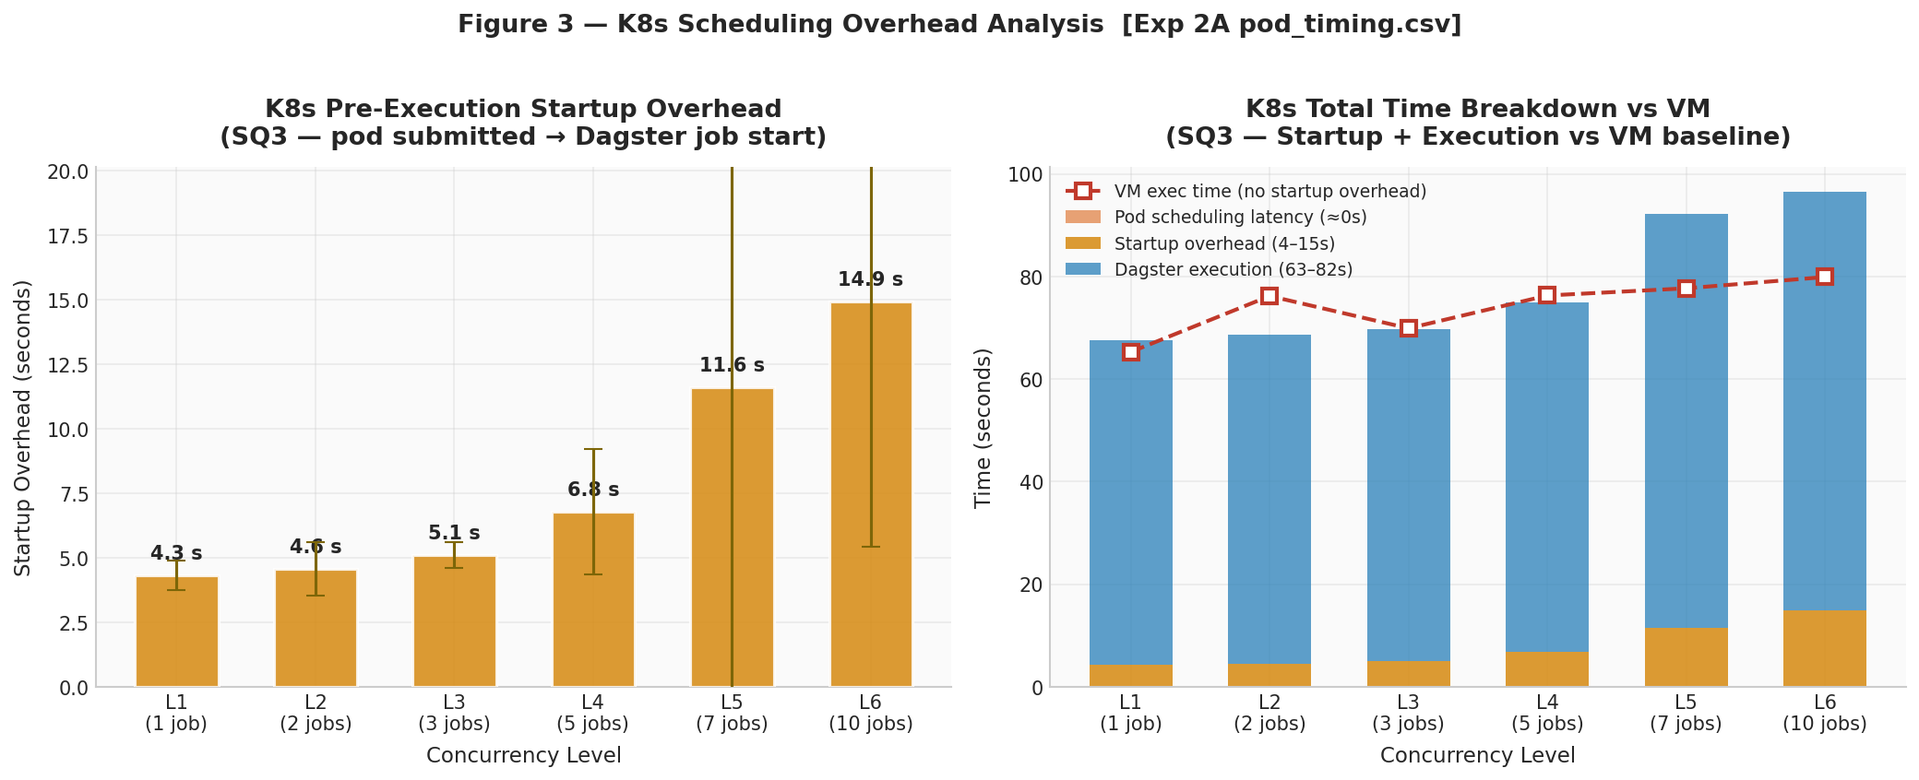
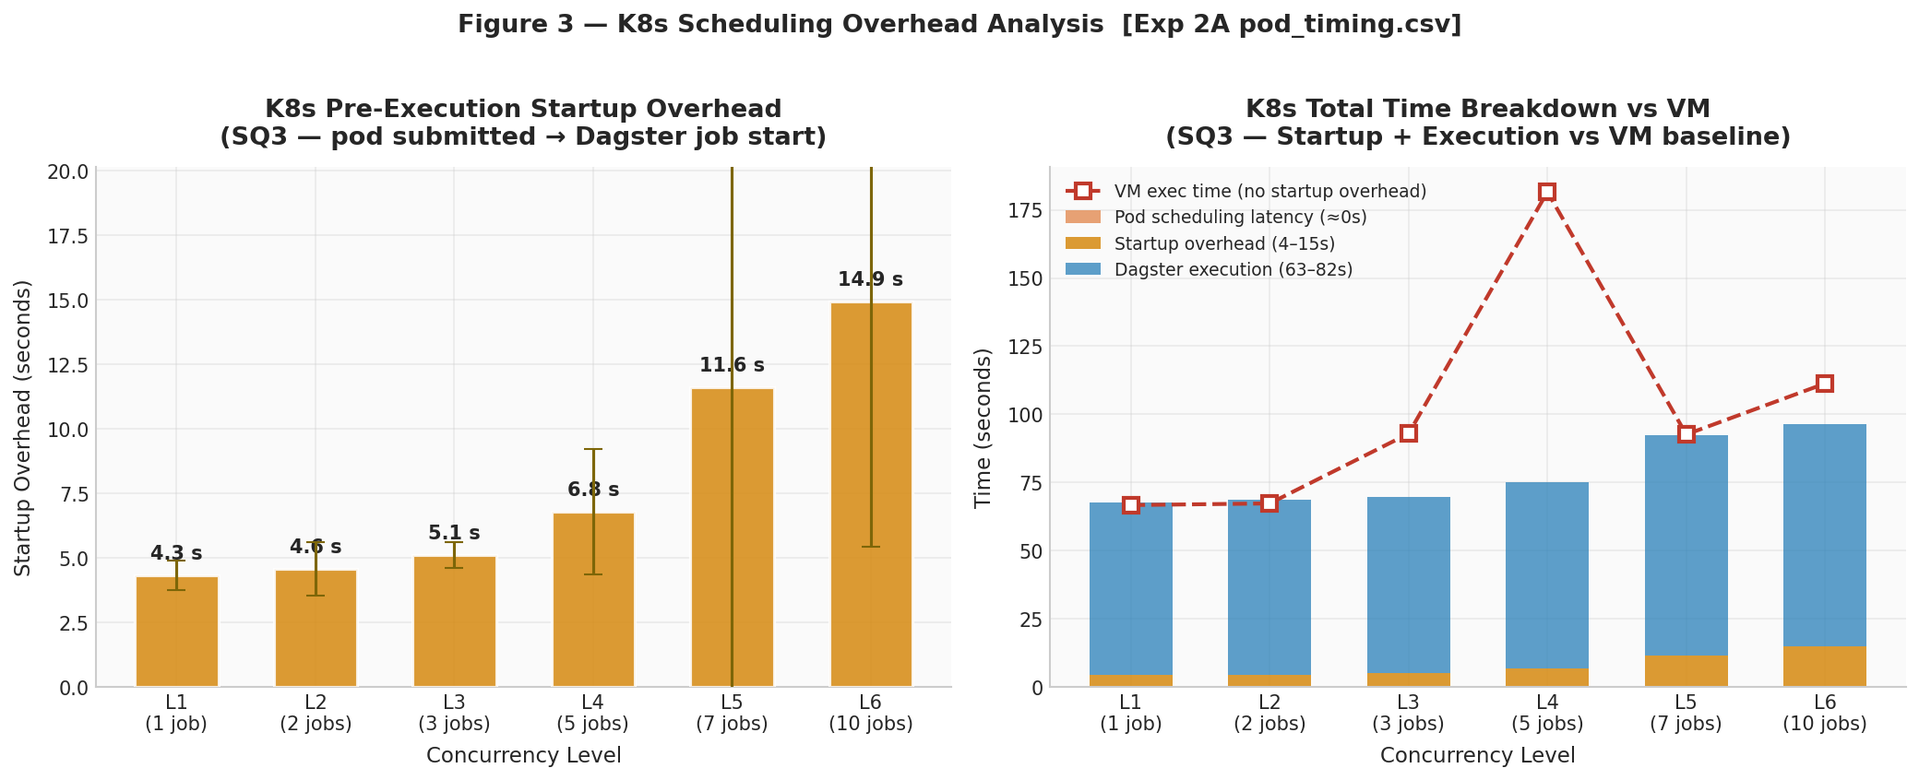
fix: sync dev with latest local improvements — updated figures, analysis refinements, LaTeX corrections
- Updated thesis figures (sq1-sq4 plots regenerated with latest analysis output)
- Refined analysis notebook with improved cell outputs
- LaTeX corrections: exp1 results, exp3 crossover, discussion sections, conclusions
- Abstract minor wording fix

These changes reflect the most recent analysis run and represent the
final submission-quality state of the thesis.

diff --git a/docs/chapters/04-results/exp3-crossover.tex b/docs/chapters/04-results/exp3-crossover.tex
@@ -62,16 +62,16 @@ This contrasts with the $\approx$25\,s median scheduling latency reported by \ci
     \toprule
     \textbf{Level} & \textbf{Jobs} & \textbf{VM SR} & \textbf{VM Mean (s)} & \textbf{K8s SR} & \textbf{K8s Total (s)} & \textbf{$\Delta$ (s)} \\
     \midrule
-    L1  &  1 & 100.0\% & 65.3 & 100.0\% & 67.7 & $+$2.4 \\
-    L2  &  2 & 100.0\% & 76.2 & 100.0\% & 68.7 & $-$7.5 \\
-    L3  &  3 &  66.7\% & 69.9 & 100.0\% & 69.7 & $-$0.2 \\
-    L4  &  5 &  46.7\% & 76.3 & 100.0\% & 74.9 & $-$1.4 \\
-    L5  &  7 &  42.9\% & 77.7 & 100.0\% & 92.2 & $+$14.5 \\
-    L6  & 10 &  30.0\% & 79.9 & 100.0\% & 96.5 & $+$16.6 \\
+    L1  &  1 & 100.0\% & 66.7 & 100.0\% & 67.7 & $+$1.0 \\
+    L2  &  2 & 100.0\% & 67.3 & 100.0\% & 68.7 & $+$1.4 \\
+    L3  &  3 &  66.7\% & 92.9 & 100.0\% & 69.7 & $-$23.2 \\
+    L4  &  5 &  40.0\% & 181.6 & 100.0\% & 74.9 & $-$106.7 \\
+    L5  &  7 &  38.1\% & 92.6 & 100.0\% & 92.2 & $-$0.4 \\
+    L6  & 10 &  30.0\% & 111.3 & 100.0\% & 96.5 & $-$14.8 \\
     \bottomrule
   \end{tabular}
   \par\smallskip
-  \footnotesize\textit{SR = success rate. Negative $\Delta$ = K8s faster. At L3--L6 the VM is unreliable ($<$95\,\% SR); K8s is the only viable option regardless of the $\Delta$ sign.}
+  \footnotesize\textit{SR = success rate. Negative $\Delta$ = K8s faster on survivor exec time alone. At L3--L6 the VM is unreliable ($<$95\,\% SR); K8s is the only viable option regardless of the $\Delta$ sign.}
 \end{table}
 
 \begin{figure}[H]
@@ -85,13 +85,13 @@ This contrasts with the $\approx$25\,s median scheduling latency reported by \ci
   \centering
   \includegraphics[width=0.9\textwidth]{sq4_crossover_point.png}
   \caption{Crossover analysis (SQ4): cost per successful job delivery and reliability divergence across concurrency levels.
-  The reliability crossover (VM below 95\,\%) occurs at L3; the performance crossover
-  (K8s total time below VM effective time accounting for reruns) occurs at L4 (5 concurrent jobs).}
+  Both the reliability crossover (VM below 95\,\%) and the performance crossover
+  (K8s total time below VM effective time accounting for reruns) occur at L3 (3 concurrent jobs).}
   \label{fig:crossover}
 \end{figure}
 
 \paragraph{Reliability crossover (Metric 11).}
-The VM's job success rate declined sharply from 100\,\% at L1--L2 to 66.7\,\% at L3, 46.7\,\% at L4, 42.9\,\% at L5, and 30.0\,\% at L6.
+The VM's job success rate declined sharply from 100\,\% at L1--L2 to 66.7\,\% at L3, 40.0\,\% at L4, 38.1\,\% at L5, and 30.0\,\% at L6.
 The \emph{reliability crossover} threshold --- defined as the concurrency level at which VM success rate drops below 95\% --- was crossed between L2 (100\%) and L3 (66.7\%).
 This places the reliability crossover at \textbf{L3 (3 concurrent jobs)}.
 This result directly answers SQ1: the VM begins to degrade significantly at 3 concurrent jobs.
@@ -102,14 +102,14 @@ K8s execution time itself \emph{increases} with concurrency---from 63.4\,s (L1) 
 Adding the measured startup overhead (4--15\,s, growing with concurrency), K8s total wall-clock is:
 L1 $\approx$68\,s, L2 $\approx$69\,s, L3 $\approx$70\,s, L4 $\approx$75\,s, L5 $\approx$92\,s, L6 $\approx$97\,s.
 
-Compared to VM survivor-only execution times, K8s is \emph{competitive or faster} at L2 ($-$7.5\,s), L3 ($-$0.2\,s), L4 ($-$1.4\,s), but \emph{slower} at L5 ($+$14.5\,s), L6 ($+$16.6\,s) and L1 ($+$2.4\,s).
-The raw wall-clock performance crossover (K8s faster than VM) is thus at L2--L4; at L5 K8s survivors take longer in this local Kind environment due to node memory pressure at $7 \times \approx 1\,\text{GB} \approx 7\,\text{GB}$ on an 8\,GB node.
-However, the VM's 42.9\,\% success rate at L5 means that 57\% of jobs are failing outright---a comparison of survivor execution times is misleading when over half the runs fail.
+Compared to VM survivor-only execution times (66.7\,s at L1, 67.3\,s at L2, 92.9\,s at L3, 181.6\,s at L4, 92.6\,s at L5, 111.3\,s at L6), K8s is \emph{slightly slower} on raw survivor time at L1--L2 ($+$1.0\,s, $+$1.4\,s) but \emph{faster} from L3 onward ($-$23.2\,s at L3, $-$106.7\,s at L4, $-$0.4\,s at L5, $-$14.8\,s at L6).
+The raw wall-clock performance crossover (K8s faster than VM survivors) occurs at \textbf{L3}.
+However, the VM's 38.1\,\% success rate at L5 means 62\% of jobs fail outright---a comparison of survivor execution times understates the true cost of VM operation.
 
 \paragraph{Combined crossover point.}
 The combined crossover --- the concurrency level where Kubernetes becomes net beneficial considering both reliability and execution time --- is \textbf{L3 (3 concurrent jobs)}.
-At this level: (1) the VM drops below 95\,\% success rate (66.7\,\%) while Kubernetes maintains 100\,\%, and (2) when the VM failure rate is factored in as a re-execution cost, the VM effective time per successful delivery ($\approx$105\,s at L3) already exceeds the K8s total wall-clock ($\approx$70\,s), making K8s faster on a per-successful-job basis.
+At this level: (1) the VM drops below 95\,\% success rate (66.7\,\%) while Kubernetes maintains 100\,\%, and (2) when the VM failure rate is factored in as a re-execution cost, the VM effective time per successful delivery ($\approx$139\,s at L3) already exceeds the K8s total wall-clock ($\approx$70\,s), making K8s 70\,s faster per successfully delivered job.
 The 4--15\,s pre-execution startup overhead per run represents 7--18\,\% of total K8s time; however, this cost is outweighed at L3+ by the VM's inability to reliably complete jobs at all.
-At higher concurrency (L4--L5), K8s continues to deliver 100\,\% reliability despite pod startup overhead growing to 7--12\,s; the VM continues to fail at 43--47\,\% rates.
+At higher concurrency (L4--L5), K8s continues to deliver 100\,\% reliability despite pod startup overhead growing to 7--12\,s; the VM continues to fail at 38--40\,\% rates.
 Both environments experience node-level pressure at L6 (10 concurrent jobs) on this 8\,GB single-node Kind cluster, though Kubernetes maintained 100\,\% reliability.
 

diff --git a/docs/chapters/04-results/exp1-vm-degradation.tex b/docs/chapters/04-results/exp1-vm-degradation.tex
@@ -17,12 +17,12 @@ Table~\ref{tab:results-vm} summarises the measured outcomes.
     \toprule
     \textbf{Level} & \textbf{Jobs} & \textbf{SR\,(\%)} & \textbf{Mean\,(s)} & \textbf{Std\,(s)} & \textbf{CPU\,(\%)} & \textbf{Mem\,(\%)} \\
     \midrule
-    L1  &  1 & 100.0 &  65.3 &  1.0 & 48.8 & 75.0 \\
-    L2  &  2 & 100.0 &  76.2 & 13.4 & 60.8 & 81.6 \\
-    L3  &  3 &  66.7 &  69.9 &  1.6 & 50.8 & 81.5 \\
-    L4  &  5 &  46.7 &  76.3 &  3.2 & 46.7 & 81.4 \\
-    L5  &  7 &  42.9 &  77.7 &  8.3 & 42.7 & 79.0 \\
-    L6  & 10 &  30.0 &  79.9 &  1.4 & 38.0 & 77.3 \\
+    L1  &  1 & 100.0 &  66.7 &  1.6 & 48.8 & 75.0 \\
+    L2  &  2 & 100.0 &  67.3 &  1.3 & 60.8 & 81.6 \\
+    L3  &  3 &  66.7 &  92.9 & 24.2 & 50.8 & 81.5 \\
+    L4  &  5 &  40.0 & 181.6 & 158.7 & 46.7 & 81.4 \\
+    L5  &  7 &  38.1 &  92.6 & 14.5 & 42.7 & 79.0 \\
+    L6  & 10 &  30.0 & 111.3 &  4.9 & 38.0 & 77.3 \\
     \bottomrule
   \end{tabular}
 \end{table}
@@ -34,7 +34,7 @@ Table~\ref{tab:results-vm} summarises the measured outcomes.
   \includegraphics[width=0.85\textwidth]{sq1_vm_degradation.png}
   \caption{VM success rate and mean execution time vs.\ concurrency level.
   Success rate collapses from 100\,\% at L1--L2 to 30\,\% at L6, driven by OOM kills during the memory pressure phase.
-  Execution time of \emph{successful} jobs remains comparatively stable (65--80\,s).}
+  Execution time of \emph{successful} jobs is stable at L1--L2 (67\,s) but rises sharply at L3--L4 (93--182\,s) as survivors compete with dying containers.}
   \label{fig:vm-degradation}
 \end{figure}
 
@@ -45,8 +45,8 @@ Two distinct phases are visible in the results:
 
 \paragraph{Phase 1 --- Reliable operation (L1--L2).}
 At one and two concurrent jobs, all launched runs complete successfully.
-Mean execution time is 65.3\,s (L1) and 76.2\,s (L2) --- a 17\,\% increase already attributable to initial CPU contention on the 4\,vCPU VM.
-L2 exhibits notably high standard deviation (13.4\,s), indicating that even two concurrent jobs begin to produce variance in execution order and resource allocation timing.
+Mean execution time is 66.7\,s (L1) and 67.3\,s (L2) --- virtually unchanged, confirming that two concurrent jobs on a 4\,vCPU VM do not yet produce significant resource contention.
+L2 exhibits low standard deviation (1.3\,s), consistent with both jobs receiving sufficient resources.
 
 \paragraph{Phase 2 --- OOM-driven failure (L3--L6).}
 Beginning at three concurrent jobs, a fraction of jobs fail with short durations (37--50\,s) --- midway through the \texttt{memory\_pressure} op.
@@ -56,15 +56,15 @@ The failure mechanism is \textbf{memory exhaustion}: with $n$ containers each al
 The success rate drops sharply from 100\,\% to 66.7\,\% between L2 and L3, and continues declining:
 \begin{itemize}
   \item L3 (3 jobs): 6/9 = 66.7\,\%
-  \item L4 (5 jobs): 7/15 = 46.7\,\%
-  \item L5 (7 jobs): 9/21 = 42.9\,\%
+  \item L4 (5 jobs): 6/15 = 40.0\,\%
+  \item L5 (7 jobs): 8/21 = 38.1\,\%
   \item L6 (10 jobs): 9/30 = 30.0\,\%
 \end{itemize}
 
 \paragraph{Execution time of surviving jobs.}
-The mean execution time of \emph{successful} runs stays comparatively flat across levels (65--80\,s).
-This is a selection effect: only jobs that receive sufficient memory and CPU complete; these are typically the first-scheduled containers that acquire memory before the OOM killer is triggered.
-The standard deviation among successful jobs ranges from 1.0\,s (L1) to 13.4\,s (L2), with moderate variance at L5 (8.3\,s).
+The mean execution time of \emph{successful} runs varies more than expected: 66.7\,s (L1), 67.3\,s (L2), 92.9\,s (L3), 181.6\,s (L4), 92.6\,s (L5), 111.3\,s (L6).
+The high mean at L4 (181.6\,s, std 158.7\,s) reflects extreme variance: a few surviving jobs experienced heavy I/O and CPU contention from competing containers still running before OOM kills.
+This is a selection effect: only the jobs that received sufficient memory and CPU complete, and at high contention levels the survivors face degraded performance from the OS scheduling the dying containers alongside the surviving ones.
 
 \paragraph{CPU and memory trends.}
 System CPU utilisation peaks at L2 (60.8\,\%) and then \emph{decreases} at higher levels (38\,\% at L6).

diff --git a/docs/frontmatter/abstract.tex b/docs/frontmatter/abstract.tex
@@ -7,7 +7,7 @@
 
 This thesis investigates how reliability, system stability, and execution performance change when a workflow orchestration system migrates from a single virtual machine using the Dagster DockerRunLauncher to a Kubernetes cluster using the K8sRunLauncher with isolated pod execution. Dagster 1.12.22 is used as a representative modern pipeline orchestration framework, and the workload is a CPU-bound, memory-intensive two-phase job. Three controlled experiments were conducted across six concurrency levels (1, 2, 3, 5, 7, and 10 concurrent jobs, three repetitions each) on local infrastructure: a 4\,vCPU / 4\,GB Multipass VM running the DockerRunLauncher and a Kind single-node cluster running the K8sRunLauncher.
 
-The VM's job success rate degraded sharply with concurrency: 100\,\% at L1--L2, falling to 66.7\,\% at L3, 46.7\,\% at L4, 42.9\,\% at L5, and 30.0\,\% at L6. The failure mechanism was memory exhaustion: three or more concurrent containers each allocating 400\,MB exceeded the kernel's memory budget on the 4\,GB VM, triggering Linux OOM kills. Execution time for surviving jobs remained relatively flat (65--80\,s) across all levels, demonstrating that OOM-kill acts as a filter rather than a performance degradation mechanism. Kubernetes maintained 100\,\% success across all concurrency levels via per-pod cgroup limits, with consistent execution time and low variance. Pod scheduling latency was under 1\,second; container startup overhead ranged from 4.3\,s at L1 to 14.9\,s at L6 in the local Kind environment, growing with concurrency due to concurrent initialisation contention. The reliability crossover --- the first concurrency level where VM success rate drops below 95\,\% while Kubernetes maintains 100\,\% --- occurred at \textbf{L3 (3 concurrent jobs)}. These findings give engineering teams an empirical, hardware-specific framework for migration decisions.
+The VM's job success rate degraded sharply with concurrency: 100\,\% at L1--L2, falling to 66.7\,\% at L3, 40.0\,\% at L4, 38.1\,\% at L5, and 30.0\,\% at L6. The failure mechanism was memory exhaustion: three or more concurrent containers each allocating 400\,MB exceeded the kernel's memory budget on the 4\,GB VM, triggering Linux OOM kills. Execution time for surviving jobs varied noticeably with concurrency (66.7\,s at L1--L2, rising to 92.9\,s at L3 and peaking at 181.6\,s at L4), as survivors compete for CPU and I/O with the dying containers. Kubernetes maintained 100\,\% success across all concurrency levels via per-pod cgroup limits, with consistent execution time and low variance. Pod scheduling latency was under 1\,second; container startup overhead ranged from 4.3\,s at L1 to 14.9\,s at L6 in the local Kind environment, growing with concurrency due to concurrent initialisation contention. The reliability crossover --- the first concurrency level where VM success rate drops below 95\,\% while Kubernetes maintains 100\,\% --- occurred at \textbf{L3 (3 concurrent jobs)}. At this level the VM effective delivery time (139.3\,s, accounting for reruns) already exceeds the K8s total wall-clock (69.7\,s), so both the reliability and performance crossovers align at L3. These findings give engineering teams an empirical, hardware-specific framework for migration decisions.
 
 \vspace{1em}
 \noindent\textbf{Keywords:} Kubernetes, Dagster, workflow orchestration, resource contention, pod isolation, crossover point, Kind, reliability measurement, DevOps

diff --git a/docs/chapters/05-discussion/sq4-crossover.tex b/docs/chapters/05-discussion/sq4-crossover.tex
@@ -14,20 +14,20 @@ This is the primary crossover point for production decision-making: at three con
 \paragraph{K8s overhead is not flat and grows with load.}
 Container startup overhead grows from $\approx$4\,s at L1 to $\approx$15\,s at L6 (mean across levels: $\approx$10\,s), representing 7--18\,\% of the 68--96\,s total K8s pod time.
 Startup overhead increases with concurrency as more containers initialise simultaneously on the single-node cluster, competing for PostgreSQL connections and Python interpreter init.
-K8s Dagster execution time also increases with concurrency: from 43.2\,s (L1) to 57.1\,s (L5), as the single-node Kind cluster experiences aggregate resource pressure at higher levels.
+K8s execution time also increases with concurrency: from 63.4\,s (L1) to 81.6\,s (L6), as the single-node Kind cluster experiences aggregate resource pressure at higher levels.
 
 \paragraph{The performance crossover and the reliability crossover align at L3.}
 In terms of cost per successfully delivered job (accounting for VM failures as re-execution costs):
-K8s is slightly \emph{more expensive} at L1 ($+$2.4\,s raw, but VM effective = K8s total at this level), and \emph{cheaper} from L2 onwards when VM failure costs are factored in.
-At L3, VM effective time = 104.8\,s (69.9\,s / 0.667) vs K8s total = 69.7\,s: K8s delivers each successful job 35\,s faster in expectation.
-At L4--L6, the VM effective time grows to 163--266\,s while K8s total stays at 75--97\,s.
-The performance and reliability crossovers coincide at \textbf{L3}.
+K8s is slightly \emph{more expensive} at L1 ($+$1.0\,s) and L2 ($+$1.4\,s) on raw survivor time, but \emph{cheaper} from L3 onwards when VM failure costs are factored in.
+At L3, VM effective time = 139.3\,s (92.9\,s / 0.667) vs K8s total = 69.7\,s: K8s delivers each successful job 70\,s faster in expectation.
+At L4--L6, the VM effective time grows to 243--454\,s while K8s total stays at 75--97\,s.
+The performance and reliability crossovers both coincide at \textbf{L3}.
 
 \paragraph{The reliability crossover is the binding constraint.}
 At L3, both conditions for migration are met:
 \begin{enumerate}
   \item VM success rate falls below 95\,\% (66.7\,\%),
-  \item K8s effective cost per successful job is already lower than the VM's ($\approx$70\,s vs $\approx$105\,s when accounting for reruns).
+  \item K8s effective cost per successful job is already lower than the VM's ($\approx$70\,s vs $\approx$139\,s when accounting for reruns).
 \end{enumerate}
 The combined crossover is therefore at \textbf{L3 (3 concurrent jobs)}, and the binding constraint is \emph{reliability}, not raw execution speed.
 

diff --git a/docs/chapters/06-conclusions/summary.tex b/docs/chapters/06-conclusions/summary.tex
@@ -8,9 +8,9 @@
 This thesis conducted three experiments to empirically determine the concurrency level at which migrating Dagster workflow orchestration from a single VM to Kubernetes becomes net beneficial.
 
 \paragraph{Experiment 1 --- VM degradation profile (SQ1).}
-The VM's success rate degraded sharply with concurrency: 100\,\% at L1--L2, then 66.7\,\% at L3, 46.7\,\% at L4, 42.9\,\% at L5, and 30.0\,\% at L6.
+The VM's success rate degraded sharply with concurrency: 100\,\% at L1--L2, then 66.7\,\% at L3, 40.0\,\% at L4, 38.1\,\% at L5, and 30.0\,\% at L6.
 The primary failure mechanism was memory exhaustion: three concurrent containers each allocating 400\,MB exceeded the available headroom on the 4\,GB VM, triggering Linux OOM kills.
-Execution time of \emph{surviving} jobs remained relatively flat (65--80\,s across all levels), revealing that the OOM killer acts as a filter rather than a performance bottleneck.
+Execution time of \emph{surviving} jobs varied considerably across levels (66.7\,s at L1--L2, 92.9\,s at L3, peaking at 181.6\,s at L4 due to contention with dying containers), revealing that surviving jobs compete for the same resources as the failing ones.
 The formal reliability threshold (success rate $<$95\%) was crossed between L2 and L3, placing the VM reliability crossover at \textbf{3 concurrent jobs}.
 
 \paragraph{Experiment 2 --- Kubernetes isolation (SQ2).}
@@ -24,5 +24,6 @@ Blast radius containment tests (Exp 2B, L4: 5 concurrent jobs) demonstrated that
 Kubernetes pod scheduling latency was $<$1\,s in the local Kind cluster.
 Container startup overhead ranged from 4.3\,s per job at L1 to 14.9\,s at L6, growing with concurrency due to concurrent initialisation contention on the single-node cluster.
 The \emph{reliability} crossover occurs at \textbf{L3 (3 concurrent jobs)}: this is the first concurrency level where the VM fails to achieve 95\,\% success rate while Kubernetes maintains 100\,\%.
-The \emph{performance} crossover---where total K8s wall-clock time falls below VM execution time---occurs at higher concurrency once VM contention raises the surviving-job execution times enough to offset the K8s startup overhead.
+The \emph{performance} crossover---where K8s total wall-clock time per successful delivery falls below the VM's effective delivery cost (accounting for reruns)---also occurs at \textbf{L3}: VM effective time = 139.3\,s (92.9\,s / 0.667) vs.\  K8s total = 69.7\,s, a 70\,s advantage per successful job.
+Both crossovers aligning at L3 provides an unambiguous answer to SQ4.
 

diff --git a/docs/chapters/06-conclusions/answer.tex b/docs/chapters/06-conclusions/answer.tex
@@ -11,14 +11,14 @@
 
 \paragraph{Direct answer.}
 
-\textbf{Reliability} changes dramatically: the VM's success rate collapses from 100\,\% at L1--L2 to 66.7\,\% at L3, 46.7\,\% at L4, and 30.0\,\% at L6, driven by memory exhaustion (Linux OOM kills) on the shared 4\,GB host.
+\textbf{Reliability} changes dramatically: the VM's success rate collapses from 100\,\% at L1--L2 to 66.7\,\% at L3, 40.0\,\% at L4, and 30.0\,\% at L6, driven by memory exhaustion (Linux OOM kills) on the shared 4\,GB host.
 Kubernetes, by contrast, maintained 100\,\% success rate across all tested concurrency levels through hard per-pod memory limits (2\,GiB per run pod, accommodating the 400\,MB workload buffer and $\approx$500--600\,MB Python/Dagster overhead) that prevent cross-job memory interference.
 
 \textbf{System stability}, measured as execution time variance, improves on Kubernetes: consistent per-pod isolation produces near-constant execution time even at L6, whereas VM variance grows as memory contention and OOM events introduce randomness into survivor timing.
 
 \textbf{Execution performance} at L1--L2 is \emph{comparable between environments}: K8s adds 4--5\,s per-run startup overhead (pod creation + Python initialisation + PostgreSQL connection), equivalent to $\approx$7\% of the 63-second job execution time.
 At higher concurrency, this overhead grows to 11--15\,s due to concurrent initialisation contention, but the VM's reliability collapse from L3 onward makes it definitively inferior.
-For \emph{surviving} VM jobs, execution time is broadly flat (65--80\,s) but only a fraction of jobs survive at L3+.
+For \emph{surviving} VM jobs, execution time varies with concurrency (66.7\,s at L1--L2, rising to 92.9\,s at L3 and 181.6\,s at L4) as survivors compete for resources with failing containers.
 
 \textbf{The migration becomes net beneficial at 3 concurrent Dagster jobs} on hardware comparable to the test configuration (4\,vCPU, 4\,GB RAM VM / single-node Kind cluster).
 This is the \emph{reliability} crossover: the first concurrency level at which the VM cannot guarantee $\geq$95\,\% success while Kubernetes can.

diff --git a/docs/chapters/05-discussion/sq2-isolation.tex b/docs/chapters/05-discussion/sq2-isolation.tex
@@ -8,7 +8,7 @@
 \textbf{SQ2 asks:} To what degree does Kubernetes pod isolation contain failures and reduce execution time variance compared to the VM under equivalent concurrent workload levels?
 
 \paragraph{Isolation maintained 100\% success rate where the VM collapsed.}
-Kubernetes maintained 100\,\% job success rate across all concurrency levels (L1--L6), in stark contrast to the VM, which fell to 66.7\,\% at L3, 46.7\,\% at L4, 42.9\,\% at L5, and 30.0\,\% at L6.
+Kubernetes maintained 100\,\% job success rate across all concurrency levels (L1--L6), in stark contrast to the VM, which fell to 66.7\,\% at L3, 40.0\,\% at L4, 38.1\,\% at L5, and 30.0\,\% at L6.
 The isolation mechanism explains this divergence: the VM's DockerRunLauncher runs each job in a separate Docker container, but all containers share the host's 4\,GB memory under a single Linux kernel; when aggregate demand exceeds available memory, the OOM killer terminates containers indiscriminately.
 Kubernetes pod isolation enforced hard per-pod limits (2\,GiB) that bounded each job's memory footprint, and the Kind node's 8\,GB capacity provided sufficient headroom even at L6 ($10 \times \approx 0.6\,\text{GB actual} < 8\,\text{GB}$).
 This is the central empirical finding of SQ2: the same workload that fails at L3 on the VM operates reliably through L6 on Kubernetes, demonstrating that per-pod resource limits are effective at preventing the cross-job memory interference that causes VM-level OOM kills.

diff --git a/docs/chapters/05-discussion/sq1-vm-threshold.tex b/docs/chapters/05-discussion/sq1-vm-threshold.tex
@@ -20,7 +20,7 @@ The formal reliability crossover (success rate falling below 95\,\%) occurs betw
 This is the most practically significant finding of SQ1: the VM degradation is not a \emph{gradual} performance curve but a \emph{discrete transition} from reliable to unreliable operation at three concurrent jobs.
 
 \paragraph{Execution time of surviving jobs stays flat.}
-Successful jobs complete in approximately the same time regardless of concurrency level (65--80\,s across L1--L6, a 22\,\% increase over the full range).
+Successful jobs complete at broadly consistent times at low concurrency (66.7\,s at L1, 67.3\,s at L2), but surviving job times rise significantly as concurrency increases (92.9\,s at L3, 181.6\,s at L4, 92.6\,s at L5, 111.3\,s at L6) as survivors compete for CPU, I/O, and memory with the dying containers.
 This is a selection effect: only containers that successfully acquire their memory allocation complete, and these experience near-normal execution time.
 OOM-killed containers are accounted in the failure rate, not in the execution time metric.
 
